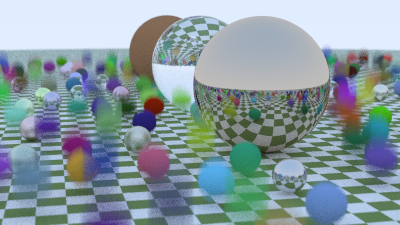
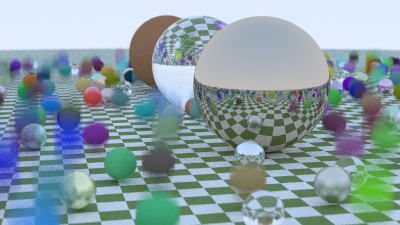
rework default settings

diff --git a/src/main.rs b/src/main.rs
@@ -39,12 +39,8 @@ fn simple() {
     world.add(sphere(point3(1.0, 0.0, -1.0), 0.5, mat_right));
 
     let cam = Camera::new(CameraOptions {
-        max_depth: 20,
-        samples_per_pixel: 100,
-        image_width: 400,
         look_from: point3(-2.0, 2.0, 1.0),
         v_fov: 20.0,
-
         defocus_angle: 10.0,
         focus_dist: 3.4,
         ..Default::default()
@@ -112,9 +108,6 @@ fn bouncing_spheres() {
     world.add(sphere(point3(4.0, 1.0, 0.0), 1.0, material3));
 
     let cam = Camera::new(CameraOptions {
-        image_width: 400,
-        samples_per_pixel: 100,
-        max_depth: 50,
         v_fov: 20.0,
         look_from: point3(13.0, 2.0, 3.0),
         look_at: point3(0.0, 0.0, 0.0),
@@ -147,13 +140,9 @@ fn checkered_spheres() {
     world.add(sphere(point3(0.0, 10.0, 0.0), 10.0, checker));
 
     let cam = Camera::new(CameraOptions {
-        image_width: 400,
-        samples_per_pixel: 100,
-        max_depth: 50,
         v_fov: 20.0,
         look_from: point3(13.0, 2.0, 3.0),
         look_at: point3(0.0, 0.0, 0.0),
-        defocus_angle: 0.0,
         ..Default::default()
     });
 
@@ -175,14 +164,10 @@ fn earth() {
     let globe = sphere(point3(0.0, 0.0, 0.0), 2.0, earth_mat);
 
     let cam = Camera::new(CameraOptions {
-        image_width: 400,
-        samples_per_pixel: 100,
-        max_depth: 50,
         v_fov: 20.0,
         look_from: point3(0.0, 0.0, 12.0),
         look_at: point3(0.0, 0.0, 0.0),
         vup: vec3(0.0, 1.0, 0.0),
-        defocus_angle: 0.0,
         ..Default::default()
     });
 
@@ -205,13 +190,9 @@ fn perlin_spheres() {
     world.add(sphere(point3(0.0, 2.0, 0.0), 2.0, perlin));
 
     let cam = Camera::new(CameraOptions {
-        image_width: 400,
-        samples_per_pixel: 100,
-        max_depth: 50,
         v_fov: 20.0,
         look_from: point3(13.0, 2.0, 3.0),
         look_at: point3(0.0, 0.0, 0.0),
-        defocus_angle: 0.0,
         ..Default::default()
     });
 
@@ -267,14 +248,9 @@ fn quads() {
 
     let cam = Camera::new(CameraOptions {
         aspect_ratio: 1.0,
-        image_width: 400,
-        samples_per_pixel: 100,
-        max_depth: 50,
         v_fov: 80.0,
         look_from: point3(0.0, 0.0, 9.0),
         look_at: point3(0.0, 0.0, 0.0),
-        vup: vec3(0.0, 1.0, 0.0),
-        defocus_angle: 0.0,
         ..Default::default()
     });
 

diff --git a/src/camera.rs b/src/camera.rs
@@ -26,8 +26,8 @@ impl Default for CameraOptions {
         Self {
             aspect_ratio: 16.0 / 9.0,
             image_width: 400,
-            samples_per_pixel: 10,
-            max_depth: 10,
+            samples_per_pixel: 100,
+            max_depth: 50,
             v_fov: 90.0,
             look_from: Point3::default(),
             look_at: point3(0.0, 0.0, -1.0),
